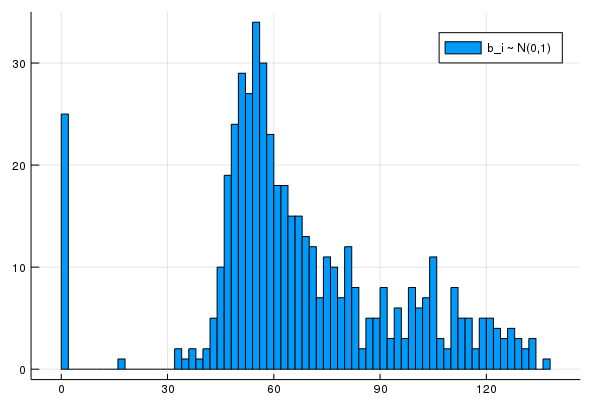
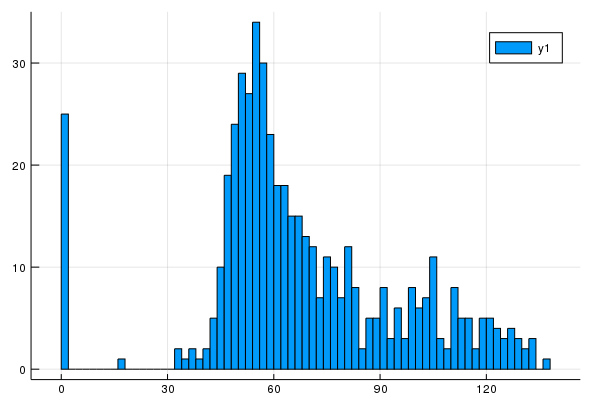
Deploy www.JuliaHomotopyContinuation.org to github.com/JuliaHomotopyContinuation/juliahomotopycontinuation.github.io.git:master

Changed region(s): [[0.72, 0.06, 0.93, 0.18]]

diff --git a/blog/circles_conics/index.html b/blog/circles_conics/index.html
@@ -120,7 +120,7 @@
 
 <meta itemprop="datePublished" content="2018-07-05T21:56:55&#43;01:00" />
 <meta itemprop="dateModified" content="2018-07-05T21:56:55&#43;01:00" />
-<meta itemprop="wordCount" content="342">
+<meta itemprop="wordCount" content="335">
 
 
 
@@ -179,23 +179,22 @@ F = map(i-&gt;
   ], 1:3)
 
 S = solve(vcat(F...))
-````
+</code></pre>
 
-I get the following answer.
-```julia-repl
-AffineResult with 512 tracked paths
+<p>I get the following answer.</p>
+
+<pre><code class="language-julia-repl">AffineResult with 512 tracked paths
 ==================================
 • 184 non-singular finite solutions (0 real)
 • 0 singular finite solutions (0 real)
 • 328 solutions at infinity
 • 0 failed paths
 • random seed: 32280
-````
+</code></pre>
 
-I make a random experiment by sampling 500 instances of the above system and counting the real solutions.
+<p>I make a random experiment by sampling 500 instances of the above system and counting the real solutions.</p>
 
-```julia
-number_of_real_solutions = Vector{Int}()
+<pre><code class="language-julia">number_of_real_solutions = Vector{Int}()
 rands = [randn(3,3) for _ in 1:500]
 
 for M in rands
@@ -217,7 +216,7 @@ end
 <p>Here is a histogram of the results.</p>
 
 <pre><code class="language-julia">using Plots #The Plots package must be installed for this
-histogram(number_of_real_solutions, label=&quot;b_i ~ N(0,1)&quot;, bins = 92)
+histogram(number_of_real_solutions, bins = 92)
 </code></pre>
 
 <p><img src="/images/hist.png" alt="img" /></p>
